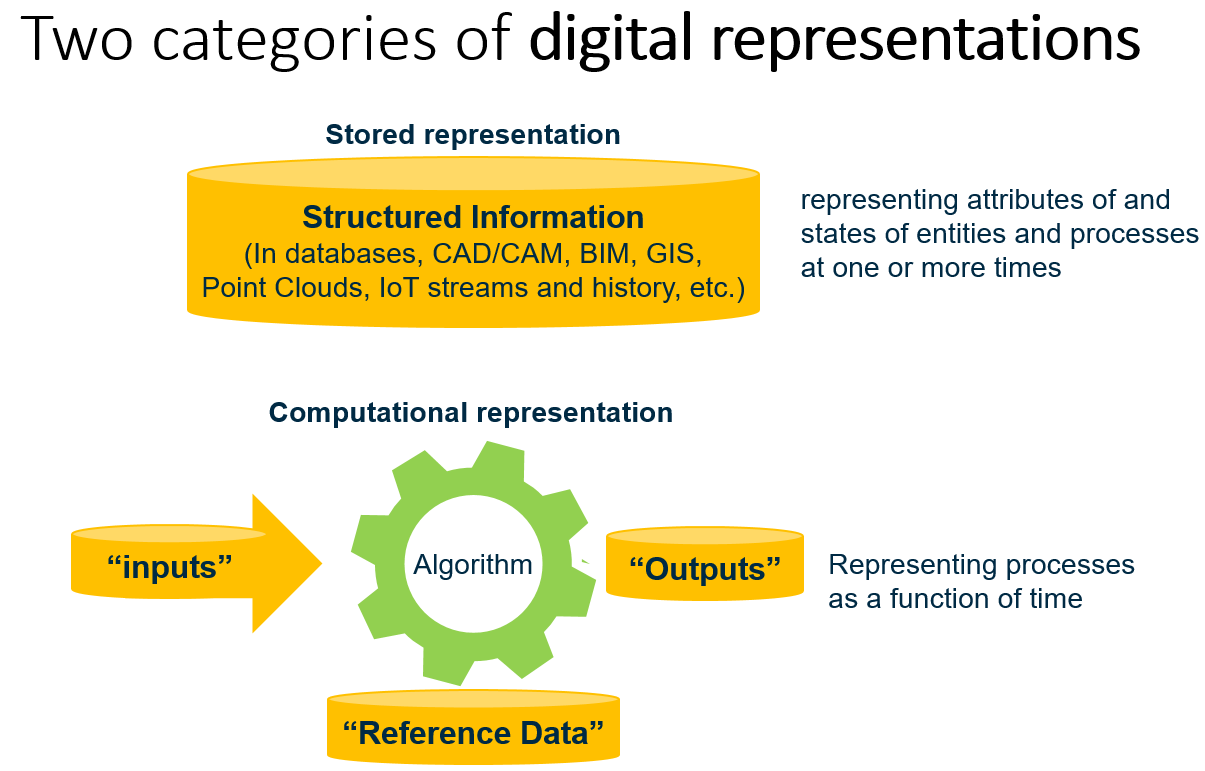
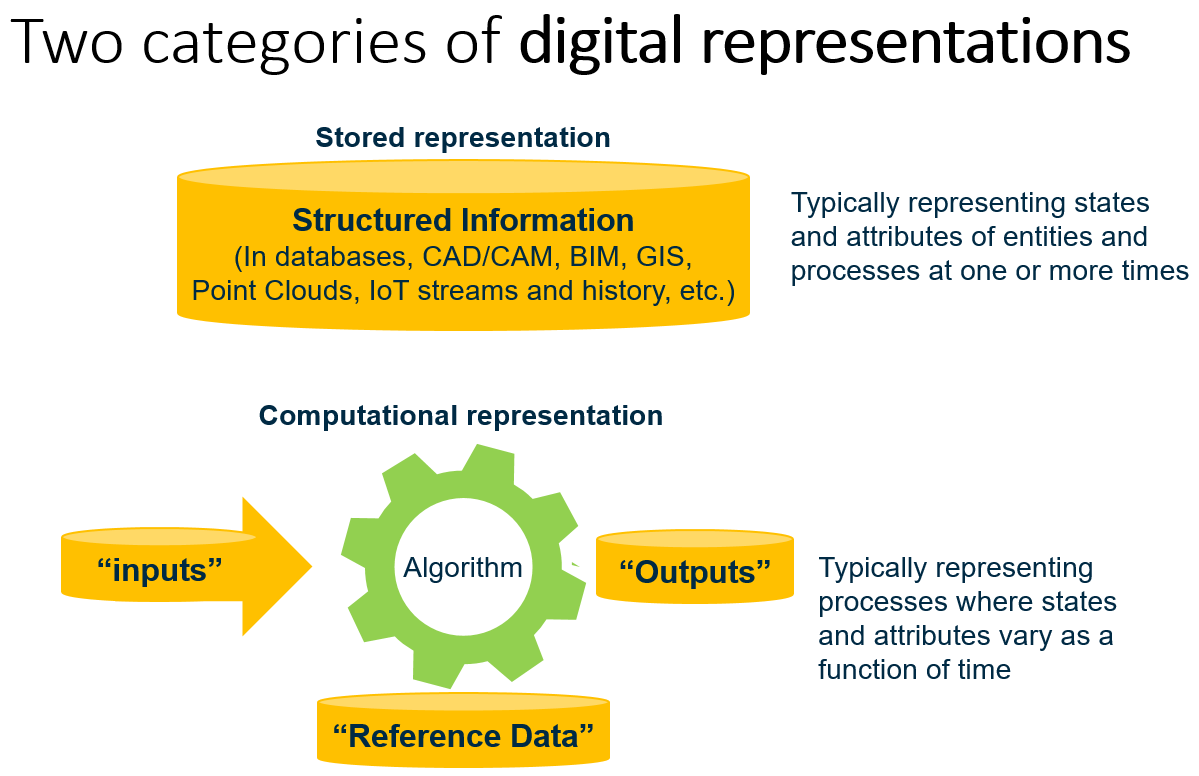
Tweaks in response to Tiger Team feedback

diff --git a/glossary.md b/glossary.md
@@ -13,6 +13,7 @@ We suggest starting with the term [Digital Twin](#digital-twin) and following li
 ## Table of Contents
 
 - [Aggregation](#aggregation)
+- [Computational Representation](#computational-representation)
 - [Cyber-Physical System](#cyber-physical-system)
 - [Data Interoperability](#data-interoperability)
 - [Data Model](#data-model)
@@ -41,15 +42,14 @@ We suggest starting with the term [Digital Twin](#digital-twin) and following li
 - [Modeling Fidelity](#modeling-fidelity)
 - [Observational Frequency](#observational-frequency)
 - [Ontology](#ontology)
-- [Stored Representation](#stored-representation)
 - [Physical Twin](#physical-twin)
 - [Real-to-virtual synchronization](#real-to-virtual-synchronization)
 - [Real-World](#real-world)
 - [Security, Trust, and Governance](#security-trust-and-governance)
 - [Service Interface](#service-interface)
-- [Computational Representation](#computational-representation)
 - [Simulation Modeling Language](#simulation-modeling-language)
 - [Subsystems of a Digital Twin System](#subsystems-of-a-digital-twin-system)
+- [Stored Representation](#stored-representation)
 - [Synchronization](#synchronization)
 - [Synchronization Fidelity](#synchronization-fidelity)
 - [Synchronization Frequency](#synchronization-frequency)
@@ -67,6 +67,30 @@ We suggest starting with the term [Digital Twin](#digital-twin) and following li
 > Aggregation is an [integration strategy](#integration-strategies) that involves copying data to gather it into a centralized location.
 
 Miriam Webster defines the verb “aggregate” as “to collect or gather into a mass or whole”. In software architecture, aggregation implies gathering, copying, and possibly transforming information from multiple systems into a single centralized system.
+
+*Back to [Table of Contents](#table-of-contents).*
+
+---
+
+## Computational Representation
+
+> A computational representation is an *executable* [digital representation](#digital-representation) consisting of computational algorithms and supporting data representing some subject matter from a dynamic perspective.
+
+Examples include simulations and predictive analytics.
+
+The subject matter of computational representation is typically a process or a set of entities with properties that are a function of time over the time-frame of interest.
+
+When executed (aka “run”), computational representations often take [stored representations](#stored-representation) as input and their computational algorithms produce [stored representations](#stored-representation) as output.
+
+Computational representations may also use reference data, which is really just another example of a [stored representation](#stored-representation).
+
+Examples of computational representations include Finite Element Analysis (FEA) models, Machine Learning models, and various other kinds of simulations based on mathematical equations, including those describing laws of physics and engineering.
+
+![Two categories of stored representations](images/DigitalRepresentations.png)
+
+***Related terms***
+
+[Computational representations](#computational-representation) are distinguished from [stored representations](#stored-representation), that do not contain algorithms.
 
 *Back to [Table of Contents](#table-of-contents).*
 
@@ -239,7 +263,7 @@ Before computers, we represented/modeled physical things using clay, wood, or pl
 
 ***Narrower terms***
 
-- We divide digital representations into two broad categories: [stored representations](#stored-representation) and [computational representations](#computational-representation).
+- We can generally divide digital representations into two broad categories: [stored representations](#stored-representation) and [computational representations](#computational-representation), though there can be some overlap between those categories.
 
 ![Two categories of stored representations](images/DigitalRepresentations.png?s=100)
 
@@ -525,24 +549,6 @@ Also see wikipedia's entry for [ontology (information science)](https://en.wikip
 
 ---
 
-## Stored Representation
-
-> A stored representation is a [model](#model) consisting of stored structured information, representing states of some subject matter.
-
-A stored representation can be queried, in contrast to a [computational representation](#computational-representation), which must be executed to produce output.
-
-Stored representations can take the form of databases of all kinds including relational databases, graph databases and other NoSQL databases, IoT "data historians", specialized CAD, BIM, and GIS repositories, 3D meshes derived from photogrammetry and/or point clouds, satellite or radar imagery, spreadsheets, intelligent 2D drawings and schematics, etc.
-
-![Two categories of digital representations](images/DigitalRepresentations.png)
-
-***Related terms***
-
-- [Stored representations](#stored-representation) are distinguished from [computational representations](#computational-representation), that contain algorithms.
-
-*Back to [Table of Contents](#table-of-contents).*
-
----
-
 ## Physical Twin
 
 > A physical twin is a set of real-world entities and processes that corresponds to a [digital twin](#digital-twin)
@@ -608,30 +614,6 @@ The concerns include privacy, security, safety, resilience, and reliability.
 
 ---
 
-## Computational Representation
-
-> A computational representation is an *executable* [digital representation](#digital-representation) consisting of computational algorithms and supporting data representing some subject matter from a dynamic perspective.
-
-Examples include simulations and predictive analytics.
-
-The subject matter of computational representation is typically a process or a set of entities with properties that are a function of time over the time-frame of interest.
-
-When executed (aka “run”), computational representations often take [stored representations](#stored-representation) as input and their computational algorithms produce [stored representations](#stored-representation) as output.
-
-Computational representations may also use reference data, which is really just another example of a [stored representation](#stored-representation).
-
-Examples of computational representations include Finite Element Analysis (FEA) models, Machine Learning models, and various other kinds of simulations based on mathematical equations, including those describing laws of physics and engineering.
-
-![Two categories of stored representations](images/DigitalRepresentations.png)
-
-***Related terms***
-
-[Computational representations](#computational-representation) are distinguished from [stored representations](#stored-representation), that do not contain algorithms.
-
-*Back to [Table of Contents](#table-of-contents).*
-
----
-
 ## Simulation Modeling Language
 
 > A simulation modeling language is a lexical or graphic language used to define simulation models for [computational representations](#computational-representation).
@@ -651,6 +633,24 @@ See wikipedia for [simulation languages](https://en.wikipedia.org/wiki/Simulatio
 Examples are listed in the entry for [digital twin system](#digital-twin-system).
 
 Subsystems of a digital twin system may have [service interfaces](#service-interface)
+
+*Back to [Table of Contents](#table-of-contents).*
+
+---
+
+## Stored Representation
+
+> A stored representation is a [digital representation](#digital-representation) consisting of stored structured information, representing states of some subject matter.
+
+A stored representation can be queried, in contrast to a [computational representation](#computational-representation), which must be executed to produce output.
+
+Stored representations can take the form of databases of all kinds including relational databases, graph databases and other NoSQL databases, IoT "data historians", specialized CAD, BIM, and GIS repositories, 3D meshes derived from photogrammetry and/or point clouds, satellite or radar imagery, spreadsheets, intelligent 2D drawings and schematics, etc.
+
+![Two categories of digital representations](images/DigitalRepresentations.png)
+
+***Related terms***
+
+- [Stored representations](#stored-representation) are distinguished from [computational representations](#computational-representation), that contain algorithms.
 
 *Back to [Table of Contents](#table-of-contents).*
 
@@ -726,7 +726,7 @@ Thus the intent of the term "[virtual representation](#virtual-representation)" 
 
 ## Virtual Representation
 
-> A virtual representation is a complex, cohesive [digital representation](#digital-representation) comprised of [stored representations](#stored-representation), [computational representations](#computational-representation), unstructured data, and supporting data which collectively provide an information-rich "virtual" experience of their their subject matter.
+> A virtual representation is a complex, cohesive [digital representation](#digital-representation) comprised of [stored representations](#stored-representation), [computational representations](#computational-representation), unstructured data, and supporting data which collectively provide an information-rich "virtual" experience of their subject matter.
 
 The [integration representation/function](#integration-representationfunction) of a [digital twin system](#digital-twin-system) "[virtually](#virtual)" joins information of various kinds together into the cohesive, multi-faceted, representation of reality that we call a "virtual representation".
 
